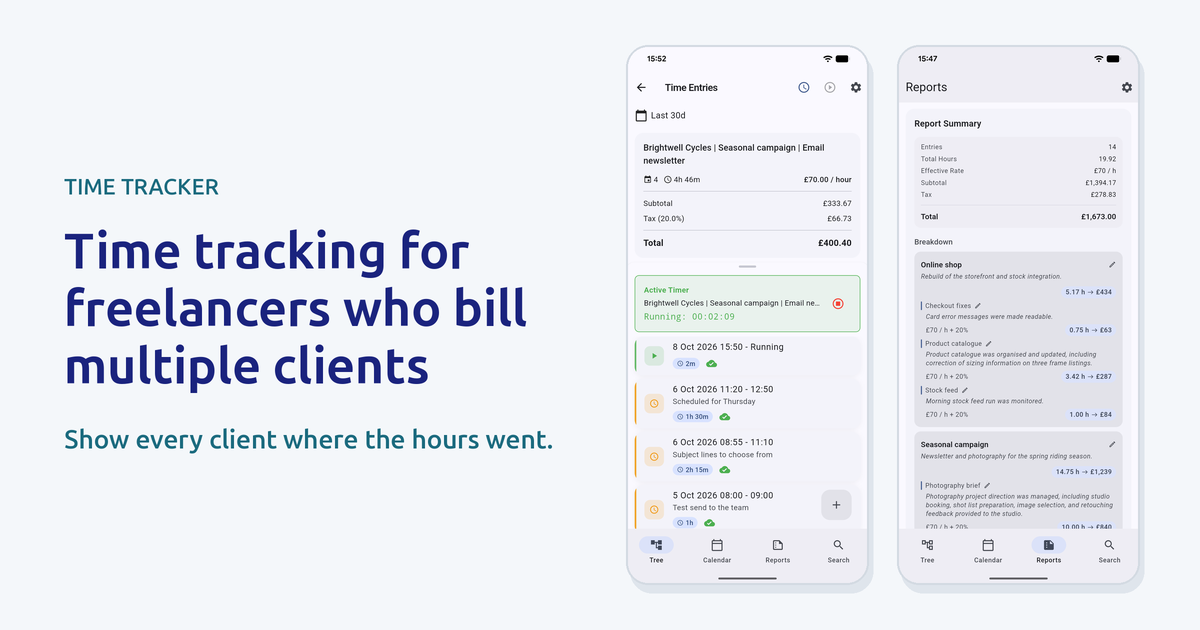
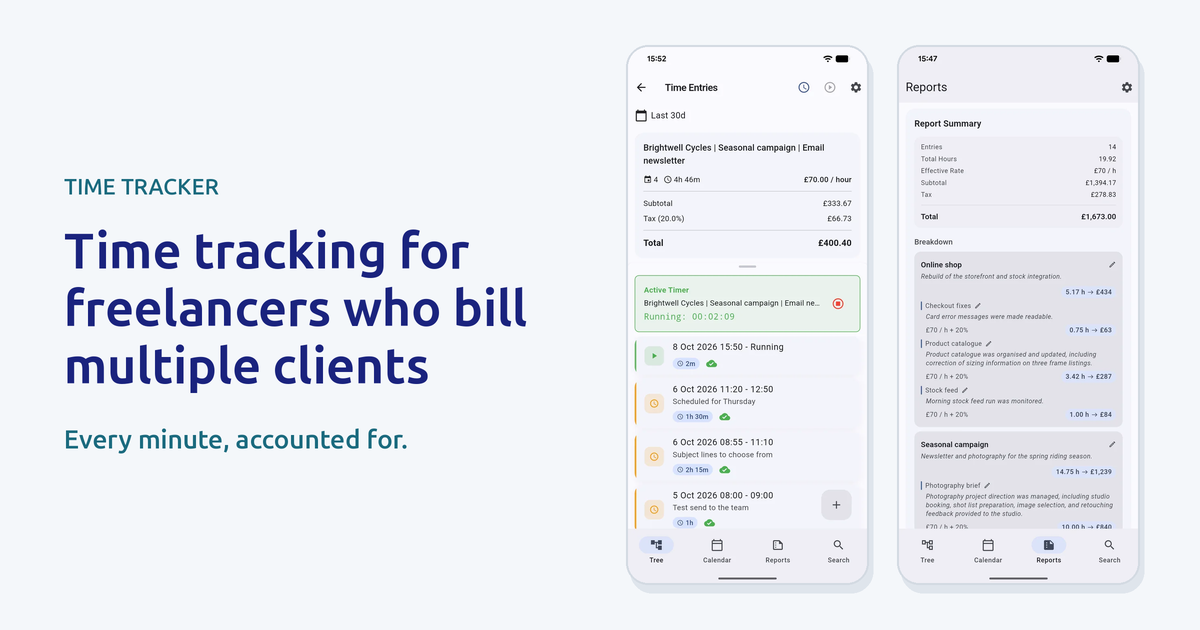
feat(time-tracker): change the subhead to "Every minute, accounted for." (#62)
The new line is shorter and works as a tagline on its own. The client
angle of the old subhead stays in the "Who It's For" paragraph. The
link-preview card has the subhead drawn into it, so it is regenerated
with the new line.

Changed region(s): [[0.0617, 0.6635, 0.4625, 0.7238]]

diff --git a/time-tracker.html b/time-tracker.html
@@ -110,7 +110,7 @@
     <section class="section tt-hero" id="tt-hero">
       <p class="tt-eyebrow">Time Tracker by Light of Data</p>
       <h1>Time tracking for freelancers who bill multiple clients</h1>
-      <p class="tt-subhead">Show every client where the hours went.</p>
+      <p class="tt-subhead">Every minute, accounted for.</p>
       <p class="tt-lead">
         Track hours by client, project and task, online or off, and export
         timesheets to PDF or CSV. Pro gives each client their own Google

diff --git a/e2e/time-tracker.spec.js b/e2e/time-tracker.spec.js
@@ -14,7 +14,7 @@ test.describe("Time Tracker Product Page", () => {
       "Time tracking for freelancers who bill multiple clients"
     );
     await expect(page.locator(".tt-subhead")).toHaveText(
-      "Show every client where the hours went."
+      "Every minute, accounted for."
     );
   });
 
